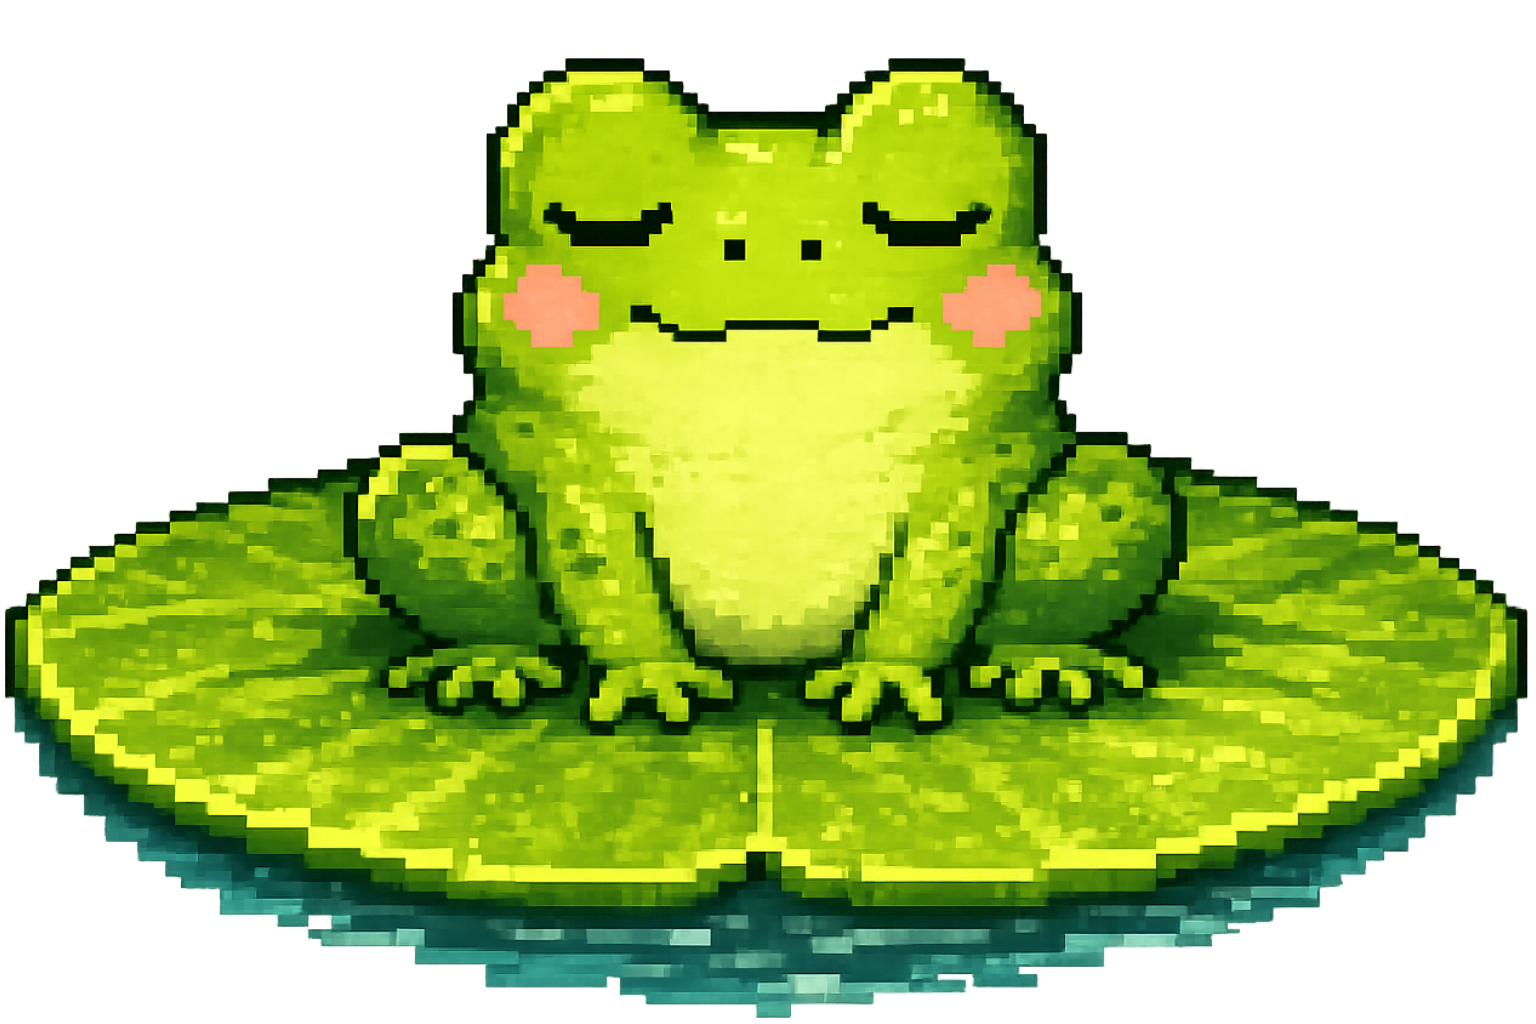
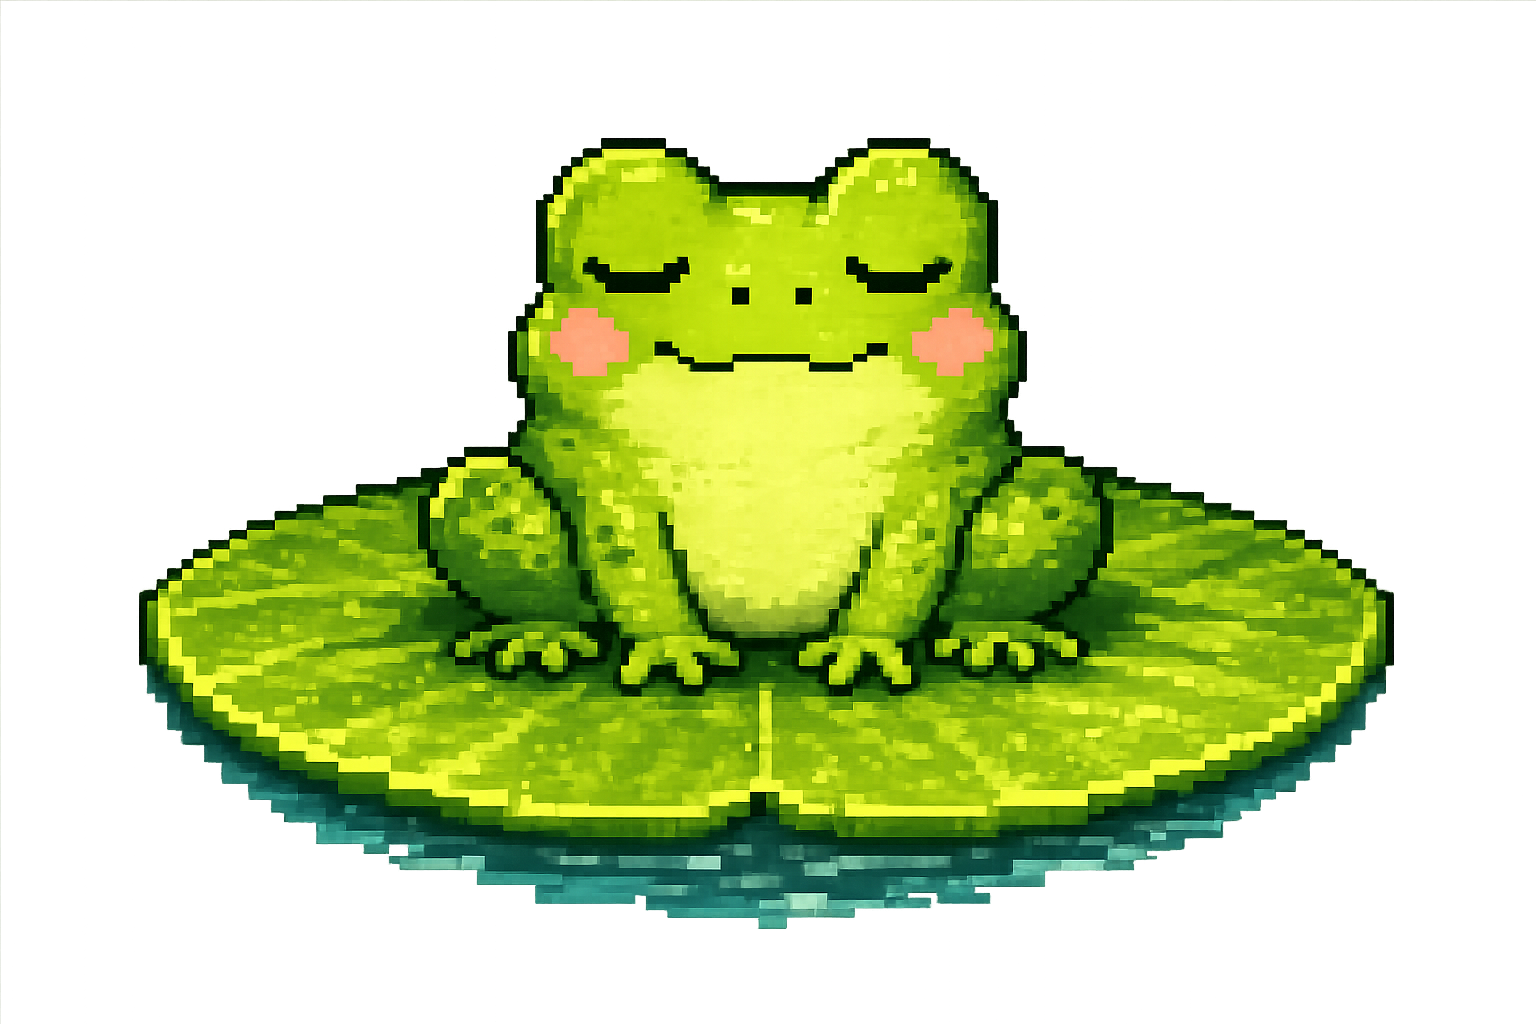
Коммит 12: При покупке кувшинки лягушка на неё пересаживается

diff --git a/src/screens/GameScreen.tsx b/src/screens/GameScreen.tsx
@@ -4,11 +4,12 @@ import flyCounterPlate from "../assets/images/objects/fly_counter_plate.png";
 import frogEyesOpen from "../assets/images/objects/default_frog_eyes_open.png";
 import frogEyesClosed from "../assets/images/objects/default_frog_eyes_closed.png";
 import fishCounterPlate from "../assets/images/objects/fish_counter_plate.png";
-// import lilyFrogOpen from "../assets/images/objects/lily_frog_eyes_open.png";
-// import lilyFrogClosed from "../assets/images/objects/lily_frog_eyes_closed.png";
+import lilyFrogOpen from "../assets/images/objects/lily_frog_eyes_open.png";
+import lilyFrogClosed from "../assets/images/objects/lily_frog_eyes_closed.png";
 import "./GameScreen.css";
 
 const blinkImages = [frogEyesOpen, frogEyesClosed];
+const lilyBlinkImages = [lilyFrogOpen, lilyFrogClosed];
 
 const lilyPrice = 10;
 const growthPrice = 1.5;
@@ -39,7 +40,7 @@ export function GameScreen() {
     let timeoutId: ReturnType<typeof setTimeout>;
 
     const nextBlink = () => {
-      const eyesOpen = 1500 + Math.random() * 2500;
+      const eyesOpen = 1800 + Math.random() * 2500;
 
       timeoutId = setTimeout(() => {
         setCurrentImg(1);
@@ -107,18 +108,29 @@ export function GameScreen() {
             alt="табличка с подсчётом рыб"
             className="fish-counter-plate"
           />
+          <p className="fish-counter">0</p>
         </div>
         <div className="shop">
           <img src={shopIcon} alt="иконка магазина" className="shop-icon" />
           <p>Shop</p>
         </div>
       </div>
-      <div className="blinking-frog-default">
-        <img
-          src={blinkImages[currentImg]}
-          alt="анимация моргающей лягушки"
-          onClick={handleClick}
-        />
+      <div className="blinking-frog">
+        {lilypads === 0 ? (
+          <img
+            src={blinkImages[currentImg]}
+            alt="анимация моргающей лягушки"
+            className="blinking-frog-default"
+            onClick={handleClick}
+          />
+        ) : (
+          <img
+            src={lilyBlinkImages[currentImg]}
+            alt="анимация моргающей лягушки на кувшинке"
+            className="blinking-frog-lily"
+            onClick={handleClick}
+          />
+        )}
       </div>
       {lilypads < liliesMax ? (
         <button onClick={buyLily} disabled={flies < nextLilyPrice}>

diff --git a/src/screens/GameScreen.css b/src/screens/GameScreen.css
@@ -23,12 +23,6 @@
   display: block;
 }
 
-.fish-counter-plate {
-  width: 220px;
-  height: 65px;
-  display: block;
-}
-
 .fly-counter {
   font-family: "Pixelify Sans", sans-serif;
   font-size: 40px;
@@ -36,6 +30,23 @@
   position: absolute;
   top: 50%;
   left: 52%;
+  transform: translate(-50%, -50%);
+  margin: 0;
+}
+
+.fish-counter-plate {
+  width: 220px;
+  height: 65px;
+  display: block;
+}
+
+.fish-counter {
+  font-family: "Pixelify Sans", sans-serif;
+  font-size: 40px;
+  color: rgb(34, 34, 34);
+  position: absolute;
+  top: 15.4%;
+  left: 8.25%;
   transform: translate(-50%, -50%);
   margin: 0;
 }
@@ -68,11 +79,20 @@
   display: block;
 }
 
-.blinking-frog-default img {
+.blinking-frog-default {
   width: 350px;
   height: auto;
   position: absolute;
   top: 62%;
   left: 40%;
+  cursor: pointer;
+}
+
+.blinking-frog-lily {
+  width: 580px;
+  height: auto;
+  position: absolute;
+  top: 49%;
+  left: 33%;
   cursor: pointer;
 }
